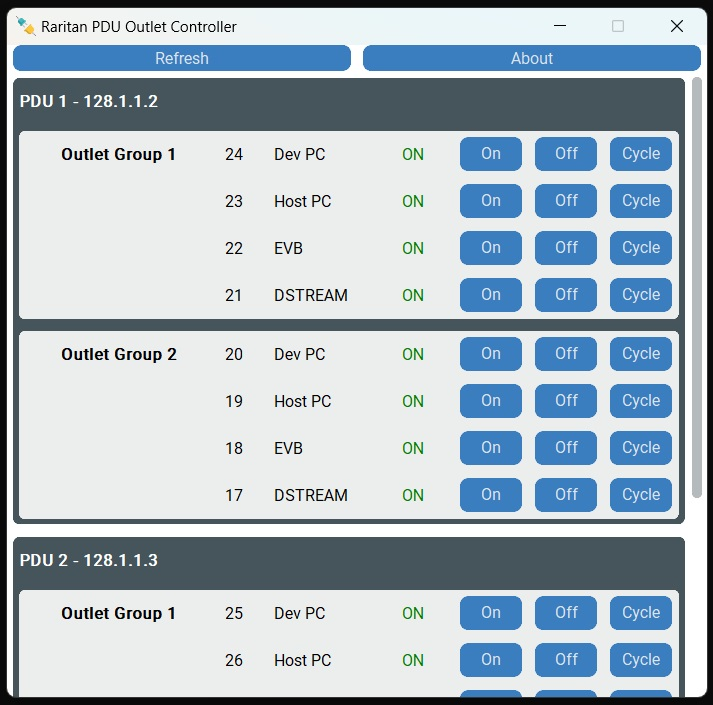
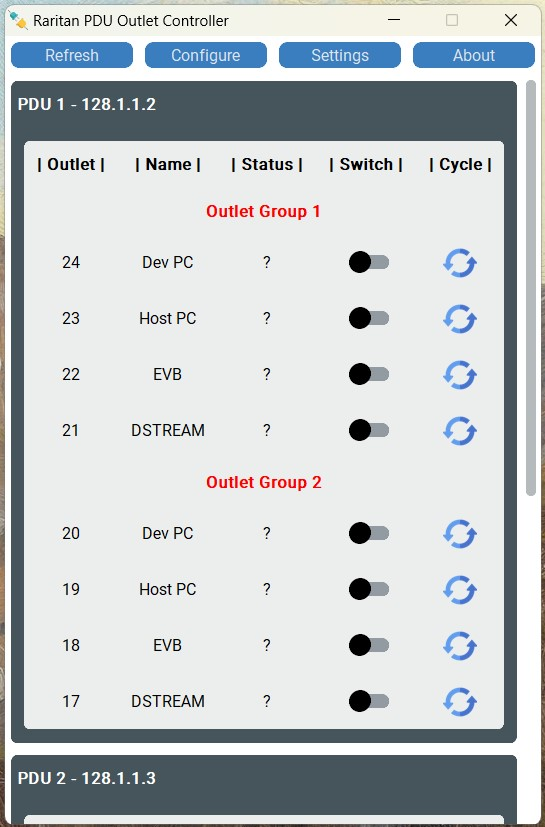
Release v1.1.0

diff --git a/src/version.py b/src/version.py
@@ -1,1 +1,1 @@
-__version__ = '1.0.4'
+__version__ = '1.0.5'

diff --git a/README.md b/README.md
@@ -57,6 +57,11 @@ _out\RaritanPduOutletController_Ubuntu\RaritanPduOutletController_Cli
 <img src="https://github.com/manojkumarpaladugu/RaritanPduOutletController/blob/main/assets/RaritanPduOutletController_Cli.jpg" width="600"/>
 
 ## Release Notes
+> ## v1.0.5 (July/09/2023)
+> 
+> - Added buttons to modify configurations
+> - Updated user interface
+
 > ## v1.0.4 (July/08/2023)
 > 
 > - Replaced seperate On/Off buttons with a single slider switch
